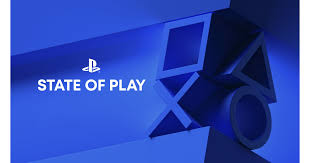
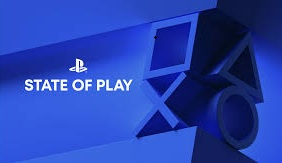
change

diff --git a/View/listado-evento.html b/View/listado-evento.html
@@ -14,7 +14,7 @@
 
   <header class="header header-usuario">
     <a href="index.html" class="logo-container">
-      <img src="logo.png" alt="Logo de Zentry" class="logo">
+      <img src="Imagenes/logo.png" alt="Logo de Zentry" class="logo">
     </a>
 
     <div class="header-title">
@@ -92,7 +92,7 @@
       </article>
       <article class="evento">
         <h3>PlayStation State of Play</h3>
-        <img src="Imagenes/PlayStationStateofPlay.png" alt="PlayStation State of Play Banner">
+        <img src="Imagenes/PlayStation State of Play.jpg" alt="PlayStation State of Play Banner">
         <p><strong>Categoría:</strong> Tecnología</p>
         <p><strong>Fecha:</strong> 2026-05-22</p>
         <p><strong>Lugar:</strong> Global Stream</p>
@@ -105,6 +105,7 @@
 
       <article class="evento">
         <h3>Tokyo Game Show 2026</h3>
+        <img src="Imagenes/Tokyo Game Show 2026.png" alt="Tokyo Game Show 2026 Banner">
         <p><strong>Categoría:</strong> Videojuegos</p>
         <p><strong>Fecha:</strong> 2026-09-24</p>
         <p><strong>Lugar:</strong> Chiba, Makuhari Messe</p>
@@ -116,6 +117,7 @@
       </article>
       <article class="evento">
         <h3>Gamescom 2026</h3>
+        <img src="Imagenes/Gamescom 2026.jpg" alt="Gamescom 2026 Banner">
         <p><strong>Categoría:</strong> Videojuegos</p>
         <p><strong>Fecha:</strong> 2026-08-19</p>
         <p><strong>Lugar:</strong> Colonia, Koelnmesse</p>

diff --git a/View/login.html b/View/login.html
@@ -14,7 +14,7 @@
 
   <header class="header header-publico">
     <a href="index.html" class="logo-container" aria-label="Ir al inicio de Zentry">
-      <img src="logo.png" alt="Logo de Zentry" class="logo">
+      <img src="Imagenes/logo.png" alt="Logo de Zentry" class="logo">
     </a>
 
     <div class="header-title">
